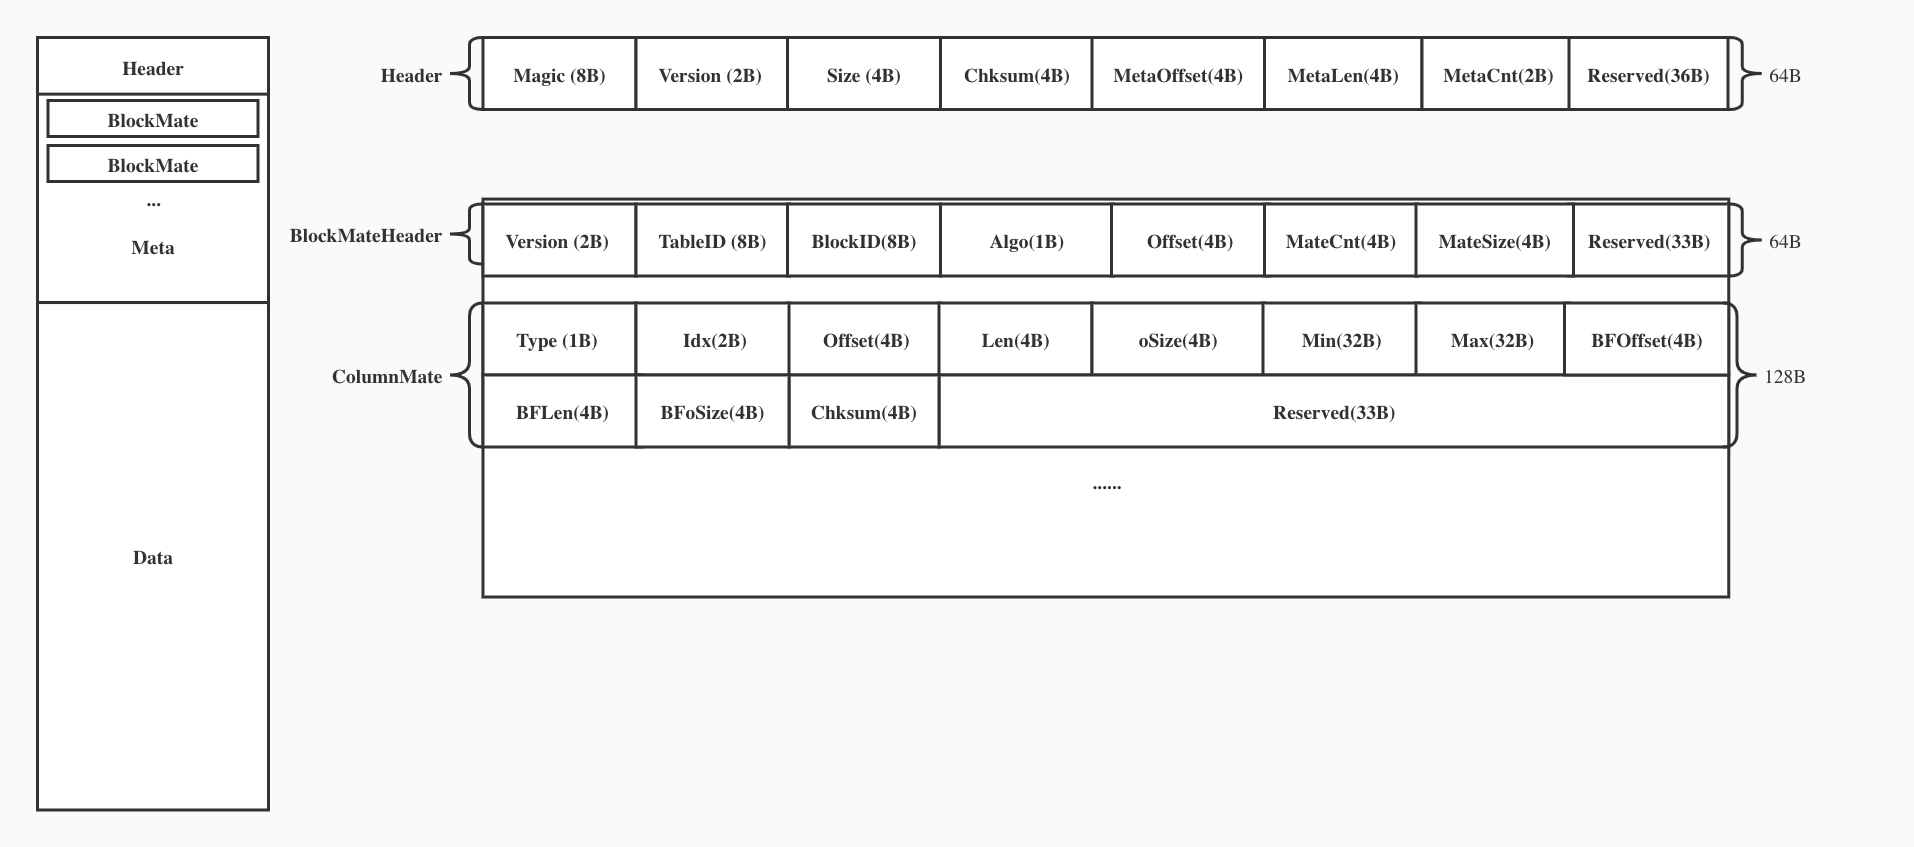
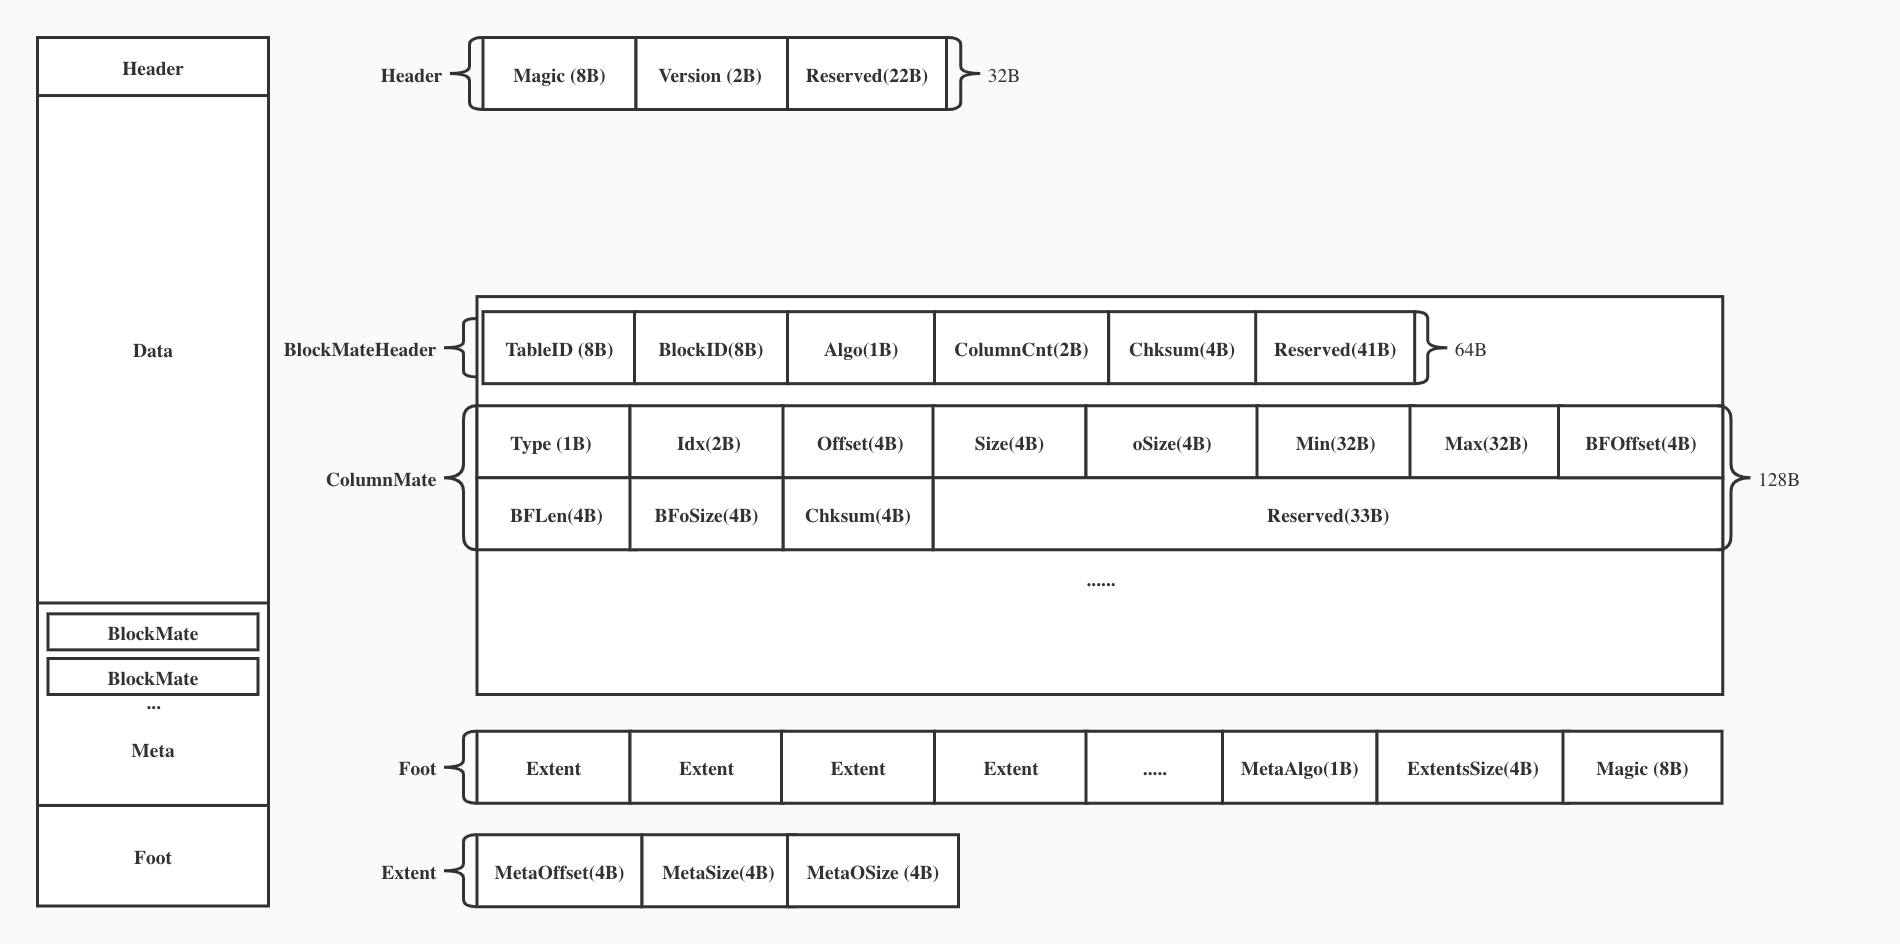
Update Layout

diff --git a/layout/layout.md b/layout/layout.md
@@ -6,18 +6,13 @@
 
 ### Header
 ```
-+---------+------------+---------+-----------+----------------+-------------+------------+--------------+
-|Magic(8B)| Version(2B)| Size(4B)| Chksum(4B)| MetaOffset (4B)| MetaLen (4B)| MetaCnt(2B)| Reserved(36B)|
-+---------+------------+---------+-----------+----------------+-------------+------------+--------------+
++---------+------------+--------------+
+|Magic(8B)| Version(2B)| Reserved(22B)|
++---------+------------+--------------+
 
 Magic = Engine identity (0x01346616). TAE only
 Version = Object file version
-Size = Header size
-Chksum = Header CheckSum(This field is 0 when calculating)
-MetaOffset = The offset of Block metadata
-MetaLen = The length of Block metadata
-MetaCnt = The number of block metadata in Object
-Reserved = 36 bytes reserved space
+Reserved = 22 bytes reserved space
 ```
 ### Meta
 
@@ -30,9 +25,9 @@ Reserved = 36 bytes reserved space
        |
 +-------------------------------------------------------------------------------------------------------+
 |                                                 Header                                                |
-+------------+-----------+-----------+--------+----------+-------------+------------+-------------------+
-| Version(2B)|TableID(8B)|BlockID(8B)|Algo(1B)|Offset(4B)|MateCnt(128B)|MateSize(4B)|   Reserved(33B)   |
-+------------+-----------+-----------+--------+----------+-------------+------------+-------------------+
++---------------+---------------+------------+-----------------+--------------+-------------------------+
+|  TableID(8B)  |  BlockID(8B)  |  Algo(1B)  |  ColumnCnt(2B)  |  Chksum(4B)  |      Reserved(41B)      |
++---------------+---------------+------------+-----------------+--------------+-------------------------+
 |                                                ColumnMeta                                             |
 +-------------------------------------------------------------------------------------------------------+
 |                                                ColumnMeta                                             |
@@ -42,29 +37,27 @@ Reserved = 36 bytes reserved space
 |                                                ..........                                             |
 +-------------------------------------------------------------------------------------------------------+
 Header Size = 64B
-Version = Meta version
 TableID = Table ID for Block
 BlockID = Block ID
-Algo = Compression algorithm
-Offset = Metadata offset of column in block
-MateCnt = The number of metadata of the column in the block
-MateSize = Column metadata Size (128b)
-Reserved = 33 bytes reserved space
+Algo = Type of compression algorithm for block data
+ColumnCnt = The number of column in the block
+Chksum = Block metadata checksum
+Reserved = 41 bytes reserved space
 ```
 ##### Column Meta
 ```
 +---------------------------------------------------------------------------------------------------------------+
 |                                                    ColumnMeta                                                 |
-+--------+-------+----------+-------+---------+--------+--------+------------+---------+-----------+------------+
-|Type(1B)|Idx(2B)|Offset(4B)|Len(4B)|oSize(4B)|Min(32B)|Max(32B)|BFoffset(4b)|BFlen(4b)|BFoSize(4B)|Chksum(4B)  |
-+--------+-------+----------+-------+---------+--------+--------+------------+---------+-----------+------------+
++--------+-------+----------+--------+---------+--------+--------+------------+---------+-----------+-----------+
+|Type(1B)|Idx(2B)|Offset(4B)|Size(4B)|oSize(4B)|Min(32B)|Max(32B)|BFoffset(4b)|BFlen(4b)|BFoSize(4B)|Chksum(4B) |
++--------+-------+----------+--------+---------+--------+--------+------------+---------+-----------+-----------+
 |                                                    Reserved(33B)                                              |
 +---------------------------------------------------------------------------------------------------------------+
 ColumnMeta Size = 128B
 Type = Metadata type, always 0, representing column meta, used for extension.
 Idx = Column index
 Offset = Offset of column data
-Len = Size of column data
+Size = Size of column data
 oSize = Original data size
 Min = Column min value
 Max = Column Max value
@@ -74,3 +67,23 @@ BFoSize = Bloomfilter original data size
 Chksum = Data checksum
 Reserved = 33 bytes reserved space
 ```
+##### Foot
+```
++------------+------------+-------------+----+--------------+----------------+------------+
+| <Extent-1> | <Extent-2> |  <Extent-3> |....| MetaAlgo(1B) | ExtentsSize(4B)| Magic (8B) |
++------------+------------+-------------+----+--------------+----------------+------------+
+        |
+        |
++----------------+--------------+-----------------+
+| MetaOffset(4B) | MetaSize(4B) |  MetaOSize (4B) |
++----------------+--------------+-----------------+
+Magic = Engine identity (0x01346616). TAE only
+ExtentsSize = The size of the meta extents area in the foot.
+MetaAlgo = Type of compression algorithm for block metadata
+```
+##### Extent
+```
+An extent records the address of a block's metadata in the object
+MetaOffset = Offset of block metadata
+MetaSize = Size of block metadata
+MetaOSize = Original metadata size
